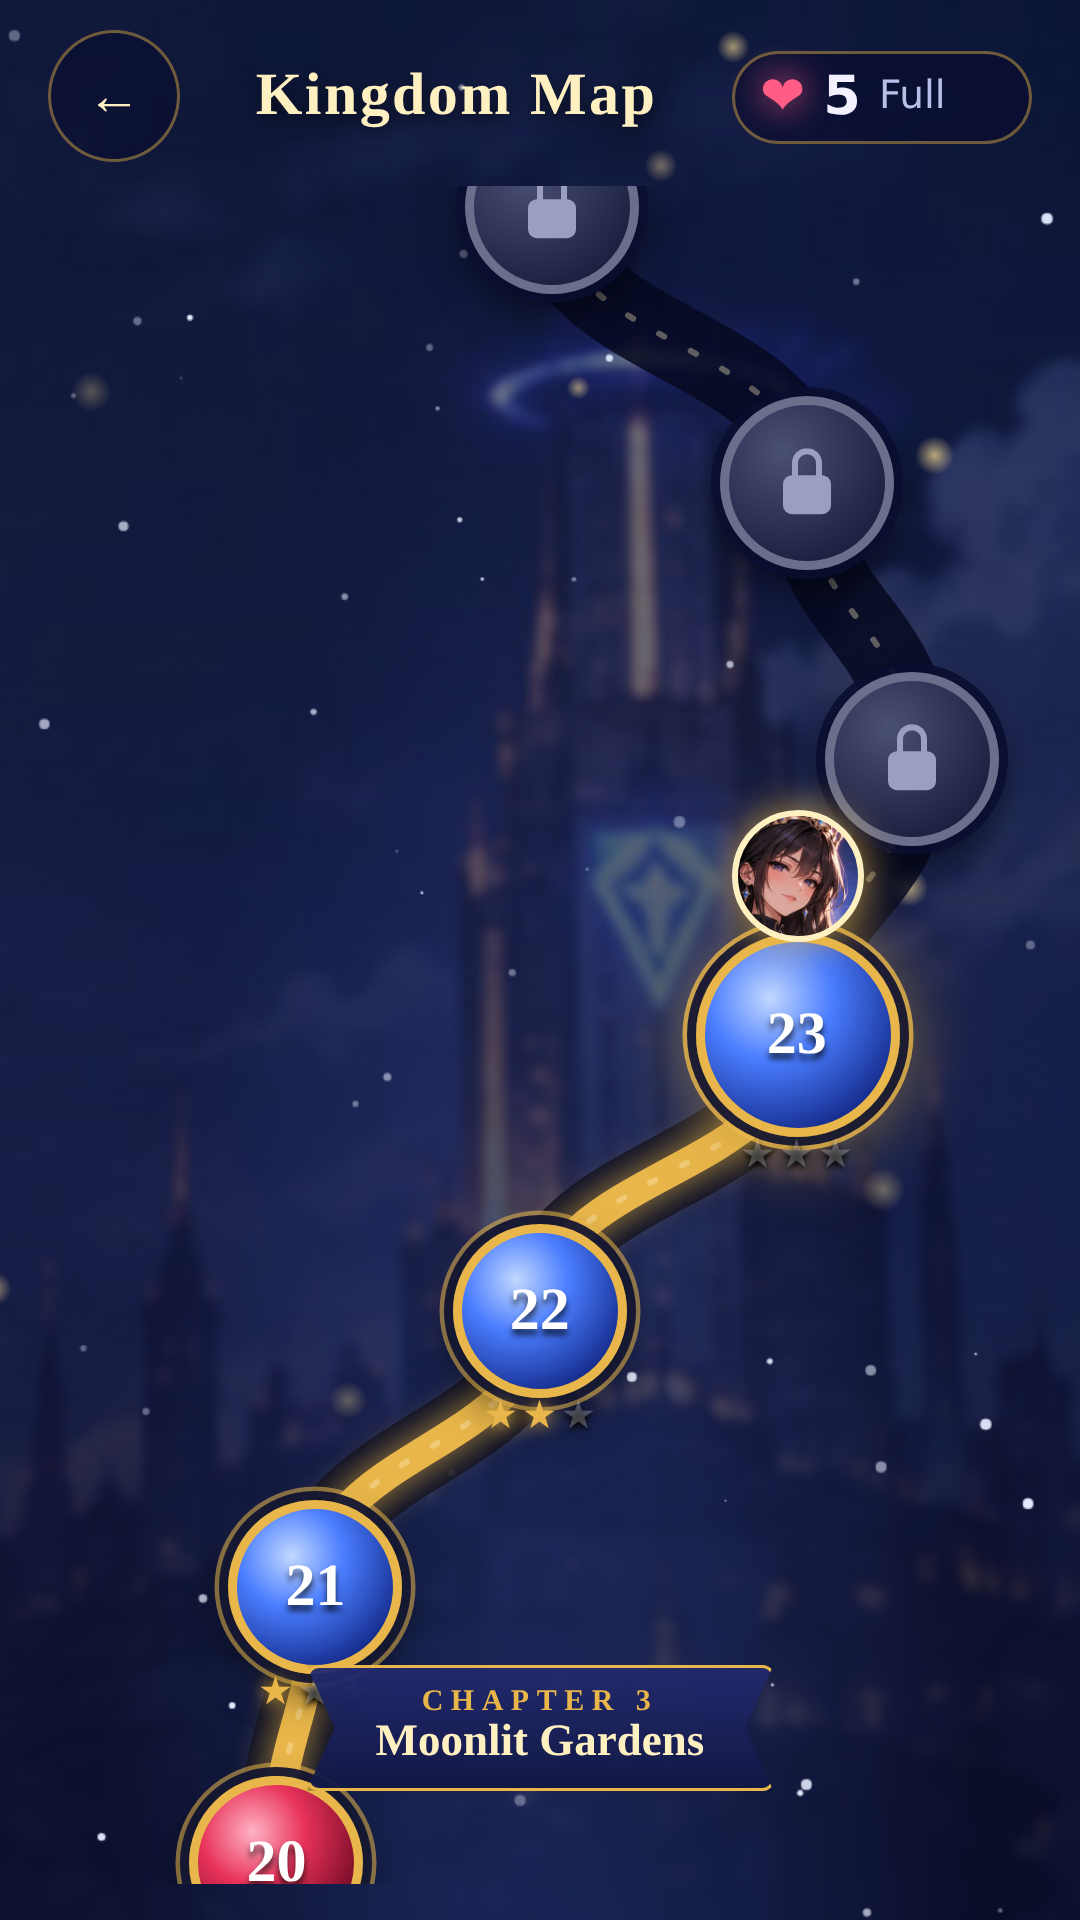
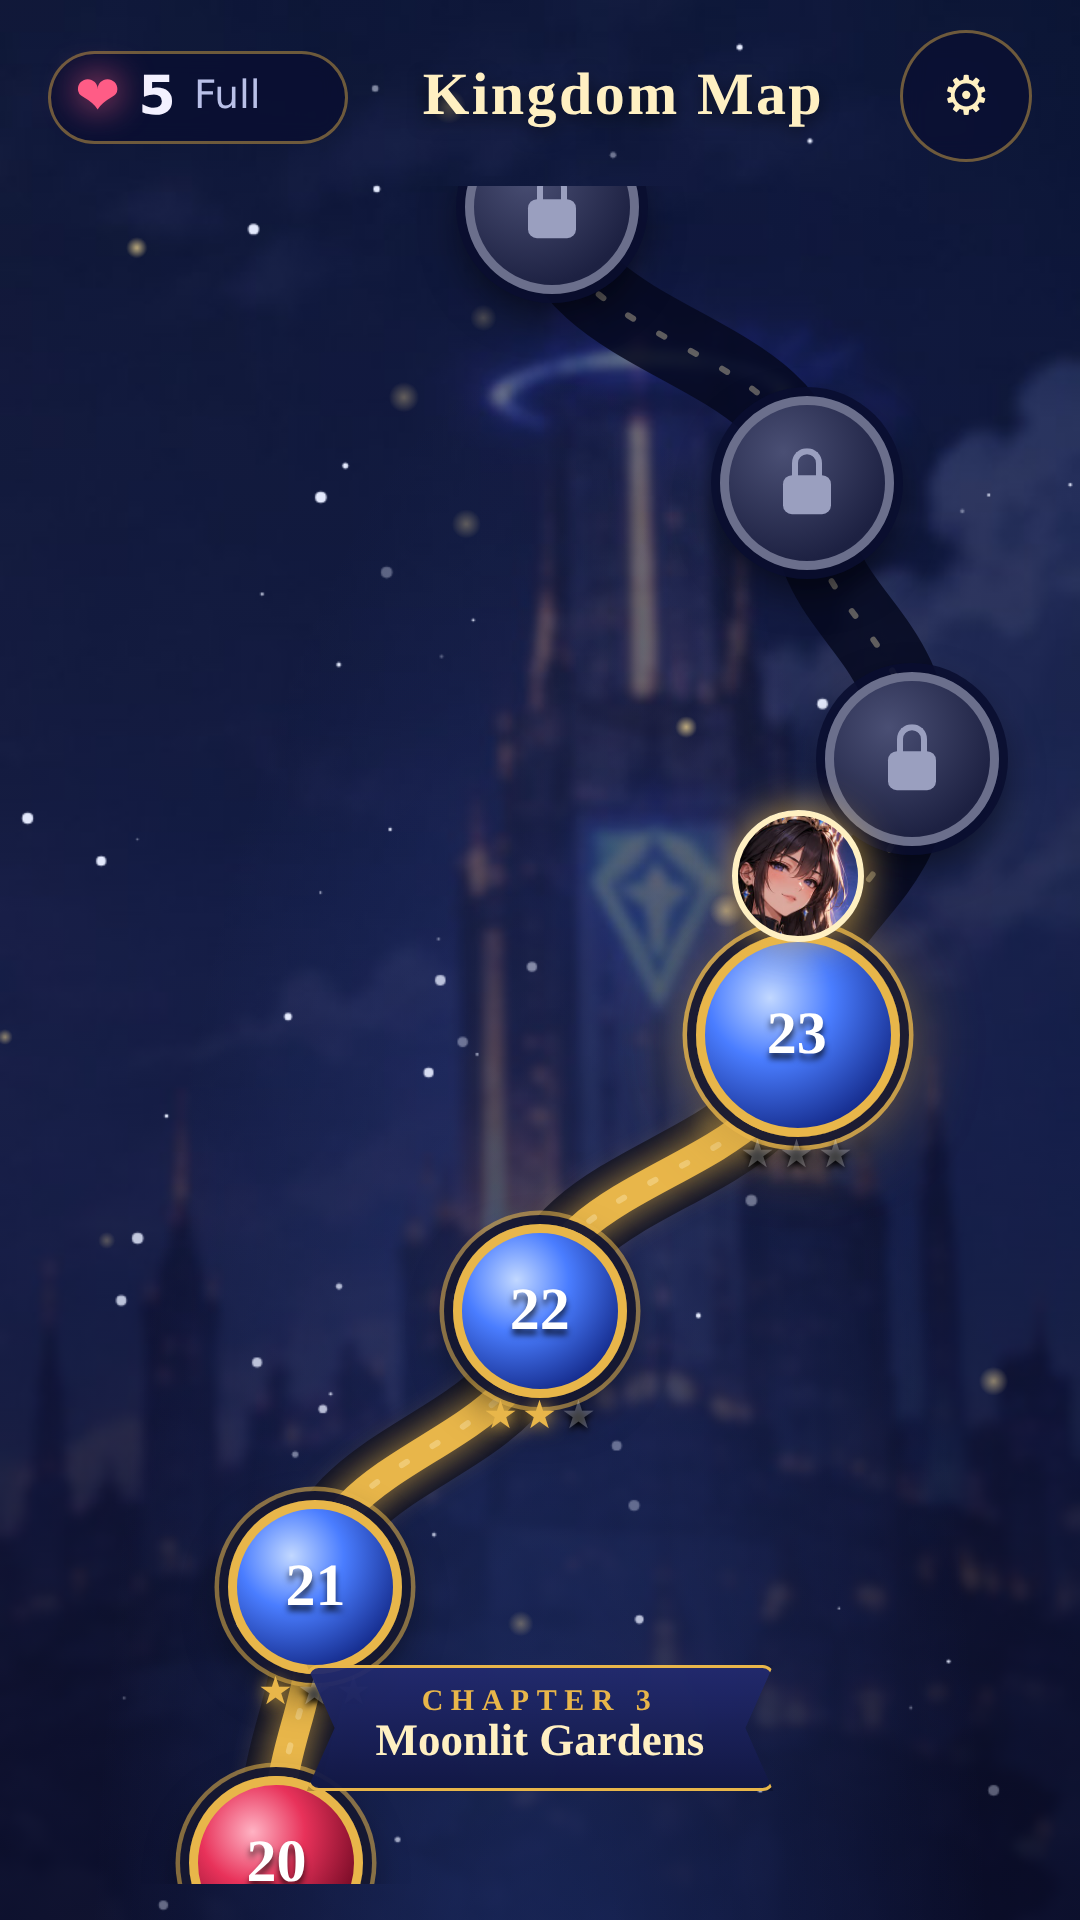
Karşılama ekranı ve harita merkezli akış
- Açılışta sadece prenses ve 'Tap to begin'; dokununca göz kırpıp seslenir ve haritaya geçer
- Canlar ve ayarlar haritada; seviye bitince veya çıkınca haritaya dönülür
- Mağaza ekran görüntüleri yeni akışla güncellendi

Claude-Session: https://claude.ai/code/session_01Dk6LRPQu3ZjmF1YwRCxFsR

diff --git a/www/js/main.js b/www/js/main.js
@@ -30,7 +30,7 @@ let nextBreakAt = BREAK_REMINDER_SECONDS;
 
 const renderer = new Renderer($('#board'), { onSwap: handleSwap, onSound: (n, k) => sfx(n, k), onHint: princessHint });
 const tapLine = () => say(Math.random() < 0.6 ? 'tickles' : pick(['giggle1', 'giggle2', 'giggle3']));
-const homePrincess = new Princess($('#princess-home'), { onTap: tapLine, onGiggle: giggle });
+const homePrincess = new Princess($('#princess-home'), { onGiggle: giggle });
 const stagePrincess = new Princess($('#princess-stage'), { onTap: tapLine, onGiggle: giggle, framed: false });
 
 // When the player seems stuck, the princess leans toward the board and whispers a hint.
@@ -67,11 +67,9 @@ function show(name) {
   }
   currentScreen = name;
   setTrack(name === 'game' ? 'game' : 'menu');
-  if (name === 'home') renderHome();
   if (name === 'map') renderMap();
   if (name === 'game') requestAnimationFrame(() => renderer.resize());
 }
-document.querySelectorAll('[data-back]').forEach((b) => b.addEventListener('click', () => show('home')));
 
 // ---------- Modal ----------
 function modal({ title, body = '', buttons = [] }) {
@@ -155,13 +153,6 @@ async function noLivesFlow() {
 }
 
 // ---------- Home ----------
-function renderHome() {
-  $('#play-level').textContent = Math.min(state.maxLevel, LEVEL_COUNT);
-  updateLivesUI();
-}
-
-$('#btn-play').addEventListener('click', () => startLevel(Math.min(state.maxLevel, LEVEL_COUNT)));
-$('#btn-map').addEventListener('click', () => show('map'));
 // ---------- Settings ----------
 const SETTINGS = [
   ['music', 'Music', (v) => setMusicEnabled(v)],
@@ -487,10 +478,10 @@ async function failFlow() {
     body: `<p>You lost a life. Lives left: <b>${lives}</b> ❤</p><p class="small">Every try makes you better. You can do this!</p>`,
     buttons: [
       { label: 'Try again', value: 'retry', cls: 'btn-primary' },
-      { label: 'Home', value: 'home', cls: 'btn-ghost' },
+      { label: 'Kingdom Map', value: 'map', cls: 'btn-ghost' },
     ],
   });
-  if (choice !== 'retry' || !(await startLevel(currentLevel))) show('home');
+  if (choice !== 'retry' || !(await startLevel(currentLevel))) show('map');
 }
 
 async function winFlow() {
@@ -520,7 +511,7 @@ async function winFlow() {
     body: `<img class="modal-portrait breathe" src="img/prenses-yuz.jpg" alt=""><div class="big-stars">${starsHtml}</div><p>Score: <b>${engine.score.toLocaleString('en-US')}</b>${bonus ? `<br><small>Moves-left bonus: +${bonus.toLocaleString('en-US')}</small>` : ''}</p>`,
     buttons: [
       ...(n < LEVEL_COUNT ? [{ label: 'Next level ➜', value: 'next', cls: 'btn-primary' }] : []),
-      { label: 'Home', value: 'home', cls: 'btn-ghost' },
+      { label: 'Kingdom Map', value: 'map', cls: 'btn-ghost' },
     ],
   });
 
@@ -530,12 +521,12 @@ async function winFlow() {
     save(state);
     await withAd(showInterstitial);
   }
-  if (choice !== 'next' || !(await startLevel(n + 1))) show('home');
+  if (choice !== 'next' || !(await startLevel(n + 1))) show('map');
 }
 
 $('#btn-quit').addEventListener('click', async () => {
   if (renderer.busy) return;
-  if (!engine || engine.movesUsed === 0) { show('home'); return; }
+  if (!engine || engine.movesUsed === 0) { show('map'); return; }
   const choice = await modal({
     title: 'Leave this level?',
     body: '<p>If you leave now, you lose <b>1 life</b>.</p>',
@@ -548,7 +539,7 @@ $('#btn-quit').addEventListener('click', async () => {
     loseLife(state.lives, Date.now());
     save(state);
     engine = null;
-    show('home');
+    show('map');
   }
 });
 
@@ -642,7 +633,6 @@ const AppPlugin = Capacitor.isNativePlatform() ? registerPlugin('App') : null;
 AppPlugin?.addListener('backButton', () => {
   if (!$('#modal').hidden || !$('#mock-ad').hidden) return;
   if (currentScreen === 'game') $('#btn-quit').click();
-  else if (currentScreen !== 'home') show('home');
   else AppPlugin.minimizeApp();
 });
 
@@ -651,7 +641,17 @@ document.addEventListener('visibilitychange', () => { if (document.hidden) save(
 show('home');
 initAds();
 // Greet the player on the first tap (browsers only allow sound after a tap)
-whenUnlocked(() => { if (currentScreen === 'home') { say(state.maxLevel > 1 ? 'welcome' : 'hi'); homePrincess.react('cheer'); } });
+whenUnlocked(() => { if (currentScreen === 'home') say(state.maxLevel > 1 ? 'welcome' : 'hi'); });
+
+// Welcome screen: one tap anywhere and the princess winks, then the map opens.
+let leavingWelcome = false;
+$('#screen-home').addEventListener('click', () => {
+  if (leavingWelcome) return;
+  leavingWelcome = true;
+  homePrincess.react('cheer');
+  $('#screen-home').classList.add('leaving');
+  setTimeout(() => { show('map'); leavingWelcome = false; $('#screen-home').classList.remove('leaving'); }, 950);
+});
 
 // For tests and debugging
 window.__game = { state, get engine() { return engine; }, renderer, startLevel };

diff --git a/www/index.html b/www/index.html
@@ -14,32 +14,21 @@
   <div class="backdrop" aria-hidden="true"></div>
   <canvas id="sky"></canvas>
 
-  <!-- HOME -->
-  <section id="screen-home" class="screen">
-    <div class="top-bar">
-      <div class="lives-pill" data-lives>
-        <span class="heart">❤</span><b class="lives-count">5</b><span class="lives-timer">Full</span>
-      </div>
-      <button class="icon-btn" id="btn-settings" aria-label="Settings">⚙</button>
-    </div>
+  <!-- WELCOME: only the princess greets the player; a tap opens the map -->
+  <section id="screen-home" class="screen welcome">
     <div class="home-hero">
       <div class="princess-home" id="princess-home"></div>
       <h1 class="logo"><span class="logo-small">The</span><span>Sky Princess</span></h1>
-      <p class="tagline">Match the stars, light up the kingdom</p>
+      <p class="tap-hint">Tap to begin</p>
     </div>
-    <div class="home-actions">
-      <button class="btn btn-primary btn-big" id="btn-play">Play · Level <span id="play-level">1</span></button>
-      <button class="btn btn-secondary" id="btn-map">Kingdom Map</button>
-    </div>
-    <p class="footer-note">No real money, no betting, no spinning wheels. Just calm fun.</p>
   </section>
 
   <!-- KINGDOM MAP -->
   <section id="screen-map" class="screen" hidden>
     <div class="top-bar">
-      <button class="icon-btn" data-back aria-label="Back">←</button>
-      <h2>Kingdom Map</h2>
       <div class="lives-pill" data-lives><span class="heart">❤</span><b class="lives-count">5</b><span class="lives-timer"></span></div>
+      <h2>Kingdom Map</h2>
+      <button class="icon-btn" id="btn-settings" aria-label="Settings">⚙</button>
     </div>
     <div class="map-scroll" id="map-scroll">
       <div class="map-path" id="level-grid"></div>

diff --git a/www/css/style.css b/www/css/style.css
@@ -467,3 +467,15 @@ input, select {
   100% { opacity: 0; transform: translate(calc(80px + var(--dx)), 70px) scale(0.9) rotate(var(--rot)); }
 }
 @media (prefers-reduced-motion: reduce) { .pr-aura, .pr-orbit, .pr-orbit i { animation: none; } }
+
+/* ---------- Welcome screen ---------- */
+.welcome { cursor: pointer; }
+.welcome .home-hero { gap: 6px; }
+.welcome .princess-home { width: min(78vw, 360px, 52vh); }
+.tap-hint {
+  margin: 18px 0 0; font-family: var(--font-display); font-weight: 700; font-size: 15px; letter-spacing: 0.3em;
+  text-transform: uppercase; color: var(--gold-light); animation: tapPulse 2.2s ease-in-out infinite;
+}
+@keyframes tapPulse { 0%, 100% { opacity: 0.35; } 50% { opacity: 1; text-shadow: 0 0 12px rgba(232, 182, 74, 0.8); } }
+.welcome.leaving .home-hero { animation: welcomeOut 0.95s ease-in forwards; }
+@keyframes welcomeOut { 45% { transform: scale(1.03); opacity: 1; } 100% { transform: scale(1.12); opacity: 0; } }
